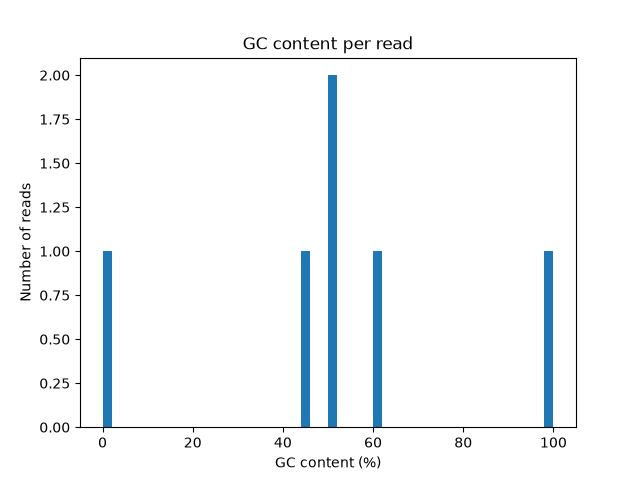
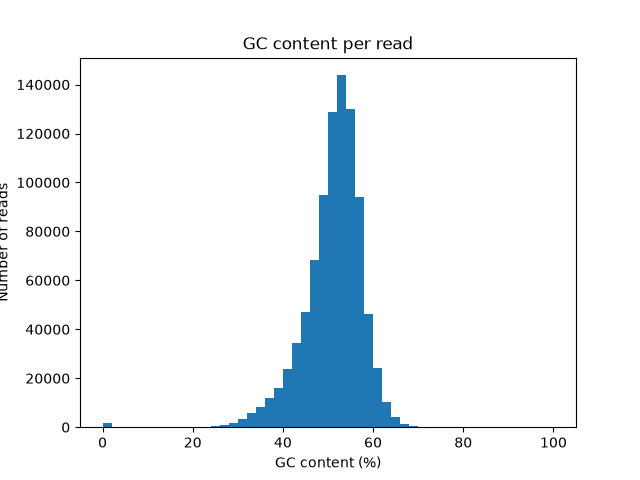
Add verbose switch

diff --git a/program.py b/program.py
@@ -1,5 +1,4 @@
 import argparse
-import plot
 from plot import plot_position_mean,plot_read_lengths,plot_gc_percentage
 
 def main():
@@ -7,16 +6,16 @@ def main():
     parser.add_argument("-i","--input",required=True,help="Input a file in fastq format")
     parser.add_argument("-t","--threshold",type=int, help="Choose the quality threshold for you file", default=20)
     parser.add_argument("-o","--output",default="filtered.fastq", help="Output file")
-    parser.add_argument("-plot",action="store_true",help="Save quality and read length plots")
-
+    parser.add_argument("--plot",action="store_true",help="Save quality and read length plots")
+    parser.add_argument("--verbose",action="store_true",help="Show individual data for all reads")
     args=parser.parse_args()
     uploaded_file=args.input
     quality_threshold=args.threshold
     output_file=args.output
 
-    line_number,total_bases,n_count,total_score,gc_count,read_length_list,read_gc_list,passed_reads,low_quality_reads,q_20,q_30,position_total,position_count,correct_file=process_file(uploaded_file,quality_threshold,output_file)
+    line_number,total_bases,n_count,total_score,gc_count,read_length_list,read_gc_list,passed_reads,low_quality_reads,q_20,q_30,position_total,position_count,correct_file=process_file(uploaded_file,quality_threshold,output_file,args.verbose)
     if correct_file:
-        print_report(line_number,total_bases,n_count,total_score,gc_count,read_length_list,read_gc_list,quality_threshold,passed_reads,low_quality_reads,q_20,q_30,position_total,position_count)
+        print_report(line_number,total_bases,n_count,total_score,gc_count,read_length_list,read_gc_list,quality_threshold,passed_reads,low_quality_reads,q_20,q_30,position_total,position_count,args.verbose)
 
         if args.plot:
             means=list(position_mean(position_total,position_count))
@@ -28,7 +27,7 @@ def main():
     if not correct_file:
         print("Warning!!",output_file,"is incomplete.")
 
-def process_file(filename,quality_threshold,output_file):
+def process_file(filename,quality_threshold,output_file,verbose):
 
     line_number=0
     correct_file=True
@@ -119,11 +118,11 @@ def process_file(filename,quality_threshold,output_file):
                     out_file.write(original_sequence + "\n")
                     out_file.write(plus +"\n")
                     out_file.write(quality_score + "\n")
-
-                print("Mean quality of read",read_number,":",round(mean_individual_score,2))
-                print("GC % for read",read_number,"is: ",read_gc_percentage)
-
                 read_gc_list.append(read_gc_percentage)
+
+                if verbose:    
+                    print("Mean quality of read",read_number,":",round(mean_individual_score,2))
+                    print("GC % for read",read_number,"is: ",read_gc_percentage)
 
             line_number+=1
     
@@ -170,7 +169,7 @@ def position_mean(position_total,position_count):
         mean.append(round(position_total[i]/position_count[i],2))
     return mean
 
-def print_report(line_number,total_bases,n_count,total_score,gc_count,read_length_list,read_gc_list,quality_threshold,passed_reads,low_quality_reads,q_20,q_30,position_total,position_count):
+def print_report(line_number,total_bases,n_count,total_score,gc_count,read_length_list,read_gc_list,quality_threshold,passed_reads,low_quality_reads,q_20,q_30,position_total,position_count,verbose):
     total_reads=line_number//4
     actual_bases=total_bases-n_count
     mean_total_score=total_score/total_bases
@@ -181,9 +180,6 @@ def print_report(line_number,total_bases,n_count,total_score,gc_count,read_lengt
     else:
         file_gc_percentage=0
         print("The file contains only unknown bases.")
-
-    for i in range (len(read_length_list)):
-        print("Read",i+1,"length:", read_length_list[i])
         
     print("Maximum read length is: ", max(read_length_list))
     print("Minimum read length is: ",min(read_length_list))
@@ -210,10 +206,13 @@ def print_report(line_number,total_bases,n_count,total_score,gc_count,read_lengt
     print("Maximum GC content: ", round(maximum_gc,2))
     print("Average GC content: ", round(average_gc,2))
 
-    print("Mean quality per position:")
-    means=position_mean(position_total,position_count)
-    for i in range (len(means)):
-        print("Mean of position",i+1,"is:",means[i])
+    if verbose:
+        for i in range (len(read_length_list)):
+            print("Read",i+1,"length:", read_length_list[i])
+        print("Mean quality per position:")
+        means=position_mean(position_total,position_count)
+        for i in range (len(means)):
+            print("Mean of position",i+1,"is:",means[i])
 
 if  __name__=="__main__":
     main()
